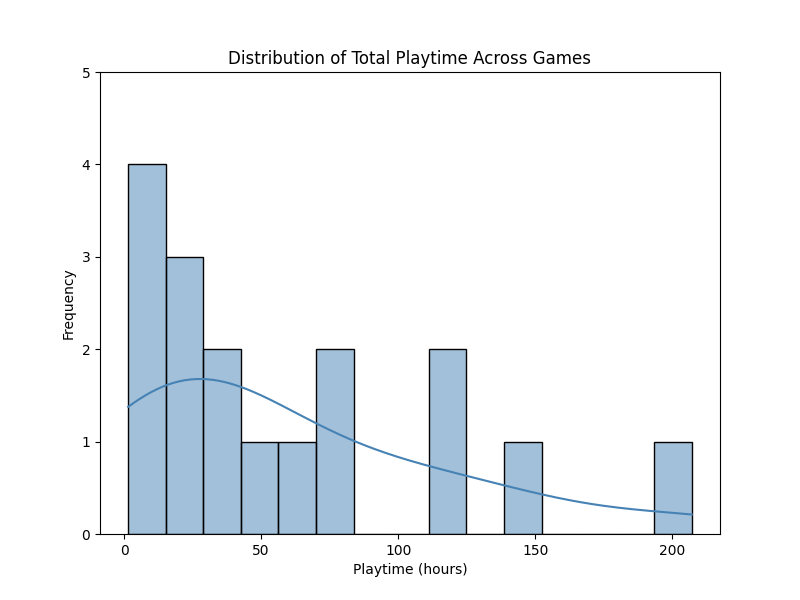
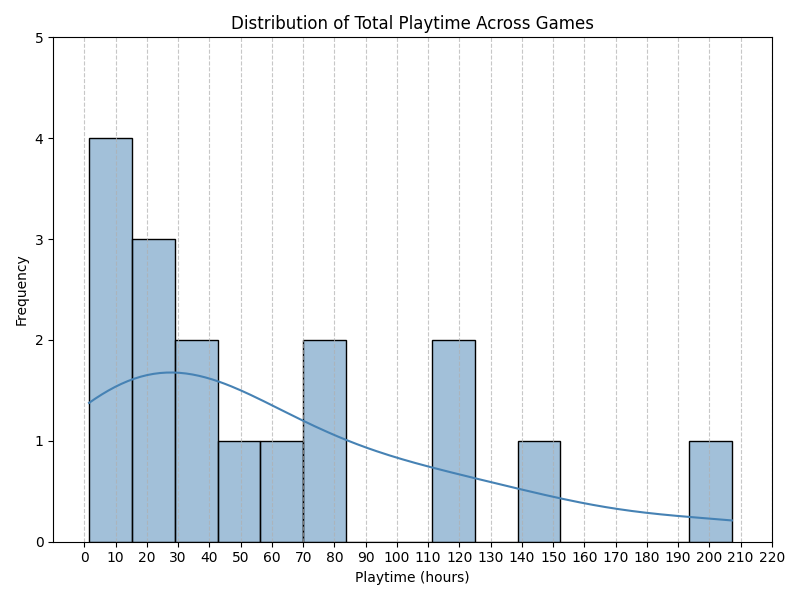
Add analysis scripts for various games' playtime and YouTube activity

diff --git a/RDR2_analysis.py b/RDR2_analysis.py
@@ -1,0 +1,33 @@
+from scipy.stats import chi2_contingency
+import numpy as np
+
+# YouTube video counts for Read Dead Redemption 2
+playtime = [0, 0, 4, 0, 0, 0, 0, 0, 35, 48, 30, 3]  # Playtime in hours
+youtube_activity = [5, 9, 3, 2, 1, 0, 0, 3, 20, 30, 28, 22]  # Number of videos watched
+
+# Combine bins to avoid empty categories
+playtime_bins = np.digitize(playtime, bins=[0, 20])  # 0-20: Low, >20: High
+youtube_bins = np.digitize(youtube_activity, bins=[0, 1])  # 0: No activity, >1: Activity
+
+# Create contingency table
+contingency_table = np.zeros((2, 2))  # 2 bins for playtime, 2 bins for YouTube activity
+for p_bin, y_bin in zip(playtime_bins, youtube_bins):
+    contingency_table[p_bin - 1, y_bin - 1] += 1
+
+# Perform Chi-Square Test
+chi2_stat, p_value, dof, expected = chi2_contingency(contingency_table)
+
+# Output results
+print("Contingency Table:")
+print(contingency_table)
+print(f"Chi-Square Statistic: {chi2_stat}")
+print(f"P-value: {p_value}")
+print(f"Degrees of Freedom: {dof}")
+print("Expected Frequencies:")
+print(expected)
+
+# Interpretation
+if p_value < 0.05:
+    print("Reject the null hypothesis: YouTube activity depends on playtime.")
+else:
+    print("Fail to reject the null hypothesis: YouTube activity is independent of playtime.")

diff --git a/witcher_analysis.py b/witcher_analysis.py
@@ -1,0 +1,33 @@
+from scipy.stats import chi2_contingency
+import numpy as np
+
+# YouTube video counts for The Witcher 3
+playtime = [65, 2, 60, 23, 0, 0, 0, 0, 0, 0, 0, 0]  # Playtime in hours
+youtube_activity = [41, 4, 20, 18, 4, 1, 1, 0, 1, 1, 15, 25]  # Number of videos watched
+
+# Combine bins to avoid empty categories
+playtime_bins = np.digitize(playtime, bins=[0, 20])  # 0-20: Low, >20: High
+youtube_bins = np.digitize(youtube_activity, bins=[0, 1])  # 0: No activity, >1: Activity
+
+# Create contingency table
+contingency_table = np.zeros((2, 2))  # 2 bins for playtime, 2 bins for YouTube activity
+for p_bin, y_bin in zip(playtime_bins, youtube_bins):
+    contingency_table[p_bin - 1, y_bin - 1] += 1
+
+# Perform Chi-Square Test
+chi2_stat, p_value, dof, expected = chi2_contingency(contingency_table)
+
+# Output results
+print("Contingency Table:")
+print(contingency_table)
+print(f"Chi-Square Statistic: {chi2_stat}")
+print(f"P-value: {p_value}")
+print(f"Degrees of Freedom: {dof}")
+print("Expected Frequencies:")
+print(expected)
+
+# Interpretation
+if p_value < 0.05:
+    print("Reject the null hypothesis: YouTube activity depends on playtime.")
+else:
+    print("Fail to reject the null hypothesis: YouTube activity is independent of playtime.")

diff --git a/dark_souls_3_analysis.py b/dark_souls_3_analysis.py
@@ -1,0 +1,33 @@
+from scipy.stats import chi2_contingency
+import numpy as np
+
+# YouTube video counts for Dark Souls III
+playtime = [0, 0, 0, 0, 0, 0, 35, 50, 0, 0, 0, 0]  # Playtime in hours
+youtube_activity = [0, 0, 0, 0, 0, 0, 2, 3, 0, 0, 0, 0]  # Number of videos watched
+
+# Combine bins to avoid empty categories
+playtime_bins = np.digitize(playtime, bins=[0, 20])  # 0-20: Low, >20: High
+youtube_bins = np.digitize(youtube_activity, bins=[0, 1])  # 0: No activity, >1: Activity
+
+# Create contingency table
+contingency_table = np.zeros((2, 2))  # 2 bins for playtime, 2 bins for YouTube activity
+for p_bin, y_bin in zip(playtime_bins, youtube_bins):
+    contingency_table[p_bin - 1, y_bin - 1] += 1
+
+# Perform Chi-Square Test
+chi2_stat, p_value, dof, expected = chi2_contingency(contingency_table)
+
+# Output results
+print("Contingency Table:")
+print(contingency_table)
+print(f"Chi-Square Statistic: {chi2_stat}")
+print(f"P-value: {p_value}")
+print(f"Degrees of Freedom: {dof}")
+print("Expected Frequencies:")
+print(expected)
+
+# Interpretation
+if p_value < 0.05:
+    print("Reject the null hypothesis: YouTube activity depends on playtime.")
+else:
+    print("Fail to reject the null hypothesis: YouTube activity is independent of playtime.")

diff --git a/fc_analysis.py b/fc_analysis.py
@@ -1,0 +1,33 @@
+from scipy.stats import chi2_contingency
+import numpy as np
+
+# YouTube video counts for EA SPORTS FC™ 24
+youtube_activity = [3, 2, 4, 0, 2, 0, 4, 2, 2, 10, 7, 5]  
+playtime = [35, 50, 21, 40, 30, 0, 5, 32, 0, 5, 40, 0] 
+
+# Combine bins to avoid empty categories
+playtime_bins = np.digitize(playtime, bins=[0, 20])  # 0-20: Low, >20: High
+youtube_bins = np.digitize(youtube_activity, bins=[0, 1])  # 0: No activity, >1: Activity
+
+# Create contingency table
+contingency_table = np.zeros((2, 2))  # 2 bins for playtime, 2 bins for YouTube activity
+for p_bin, y_bin in zip(playtime_bins, youtube_bins):
+    contingency_table[p_bin - 1, y_bin - 1] += 1
+
+# Perform Chi-Square Test
+chi2_stat, p_value, dof, expected = chi2_contingency(contingency_table)
+
+# Output results
+print("Contingency Table:")
+print(contingency_table)
+print(f"Chi-Square Statistic: {chi2_stat}")
+print(f"P-value: {p_value}")
+print(f"Degrees of Freedom: {dof}")
+print("Expected Frequencies:")
+print(expected)
+
+# Interpretation
+if p_value < 0.05:
+    print("Reject the null hypothesis: YouTube activity depends on playtime.")
+else:
+    print("Fail to reject the null hypothesis: YouTube activity is independent of playtime.")

diff --git a/cyberpunk_analysis.py b/cyberpunk_analysis.py
@@ -1,0 +1,33 @@
+from scipy.stats import chi2_contingency
+import numpy as np
+
+ # YouTube video counts for cyberpunk
+youtube_activity = [40, 70, 0, 0, 0, 0, 0, 0, 0, 0, 0, 0]
+playtime = [30, 60, 40, 5, 0, 0, 2, 3, 2, 2, 5, 40]
+
+# Combine bins to avoid empty categories
+playtime_bins = np.digitize(playtime, bins=[0, 20])  # 0-20: Low, >20: High
+youtube_bins = np.digitize(youtube_activity, bins=[0, 1])  # 0: No activity, >1: Activity
+
+# Create contingency table
+contingency_table = np.zeros((2, 2))  # 2 bins for playtime, 2 bins for YouTube activity
+for p_bin, y_bin in zip(playtime_bins, youtube_bins):
+    contingency_table[p_bin - 1, y_bin - 1] += 1
+
+# Perform Chi-Square Test
+chi2_stat, p_value, dof, expected = chi2_contingency(contingency_table)
+
+# Output results
+print("Contingency Table:")
+print(contingency_table)
+print(f"Chi-Square Statistic: {chi2_stat}")
+print(f"P-value: {p_value}")
+print(f"Degrees of Freedom: {dof}")
+print("Expected Frequencies:")
+print(expected)
+
+# Interpretation
+if p_value < 0.05:
+    print("Reject the null hypothesis: YouTube activity depends on playtime.")
+else:
+    print("Fail to reject the null hypothesis: YouTube activity is independent of playtime.")

diff --git a/steam_analysis.py b/steam_analysis.py
@@ -68,14 +68,22 @@ def analyze_basic_stats(df):
     print(recently_played[['name', 'last_played_date']])
 
 def visualize_playtime_distribution(df):
-    """Visualize the distribution of playtime."""
+    """Visualize the distribution of playtime with clearer x-axis labels."""
     plt.figure(figsize=(8, 6))
     sns.histplot(df['playtime_forever_hours'], bins=15, kde=True, color='steelblue')
     plt.title('Distribution of Total Playtime Across Games')
     plt.xlabel('Playtime (hours)')
     plt.ylabel('Frequency')
-    plt.ylim(0, 5)  # Set the y-axis limits
+
+    # Set the x-axis range to include zero and enhance clarity
+    plt.xlim(-10, max(df['playtime_forever_hours']) + 10)
+    plt.xticks(range(0, int(max(df['playtime_forever_hours']) + 20), 10))  # Set ticks every 10 hours
+    
+    plt.ylim(0, 5)  # Keep the y-axis limits
+    plt.grid(axis='x', linestyle='--', alpha=0.7)  # Add a grid for better readability
+    plt.tight_layout()
     plt.show()
+
 
 
 def visualize_top_games(df):

diff --git a/total_playtime_analysis.py b/total_playtime_analysis.py
@@ -1,0 +1,20 @@
+from statsmodels.stats.proportion import proportions_ztest
+
+# Total playtime in minutes for 19 games
+playtime = [0, 9000, 5024, 0, 4503, 6870, 7173, 1073, 160, 2948, 494, 1995, 624, 3538, 89, 12431, 1526, 1211, 2272]
+
+# Calculate the number of games with zero playtime
+zero_playtime_count = sum(1 for x in playtime if x == 0)
+total_games = len(playtime)
+
+# Perform a one-sample z-test for proportions
+# Null hypothesis: proportion of zero-playtime games = 0
+stat, p_value = proportions_ztest(count=zero_playtime_count, nobs=total_games, value=0, alternative='larger')
+
+print(f"Zero Playtime Count: {zero_playtime_count}")
+print(f"Total Games: {total_games}")
+print(f"Z-statistic: {stat}, P-value: {p_value}")
+if p_value < 0.05:
+    print("Reject the null hypothesis: There is a significant proportion of zero-playtime games.")
+else:
+    print("Fail to reject the null hypothesis: There is no significant proportion of zero-playtime games.")
